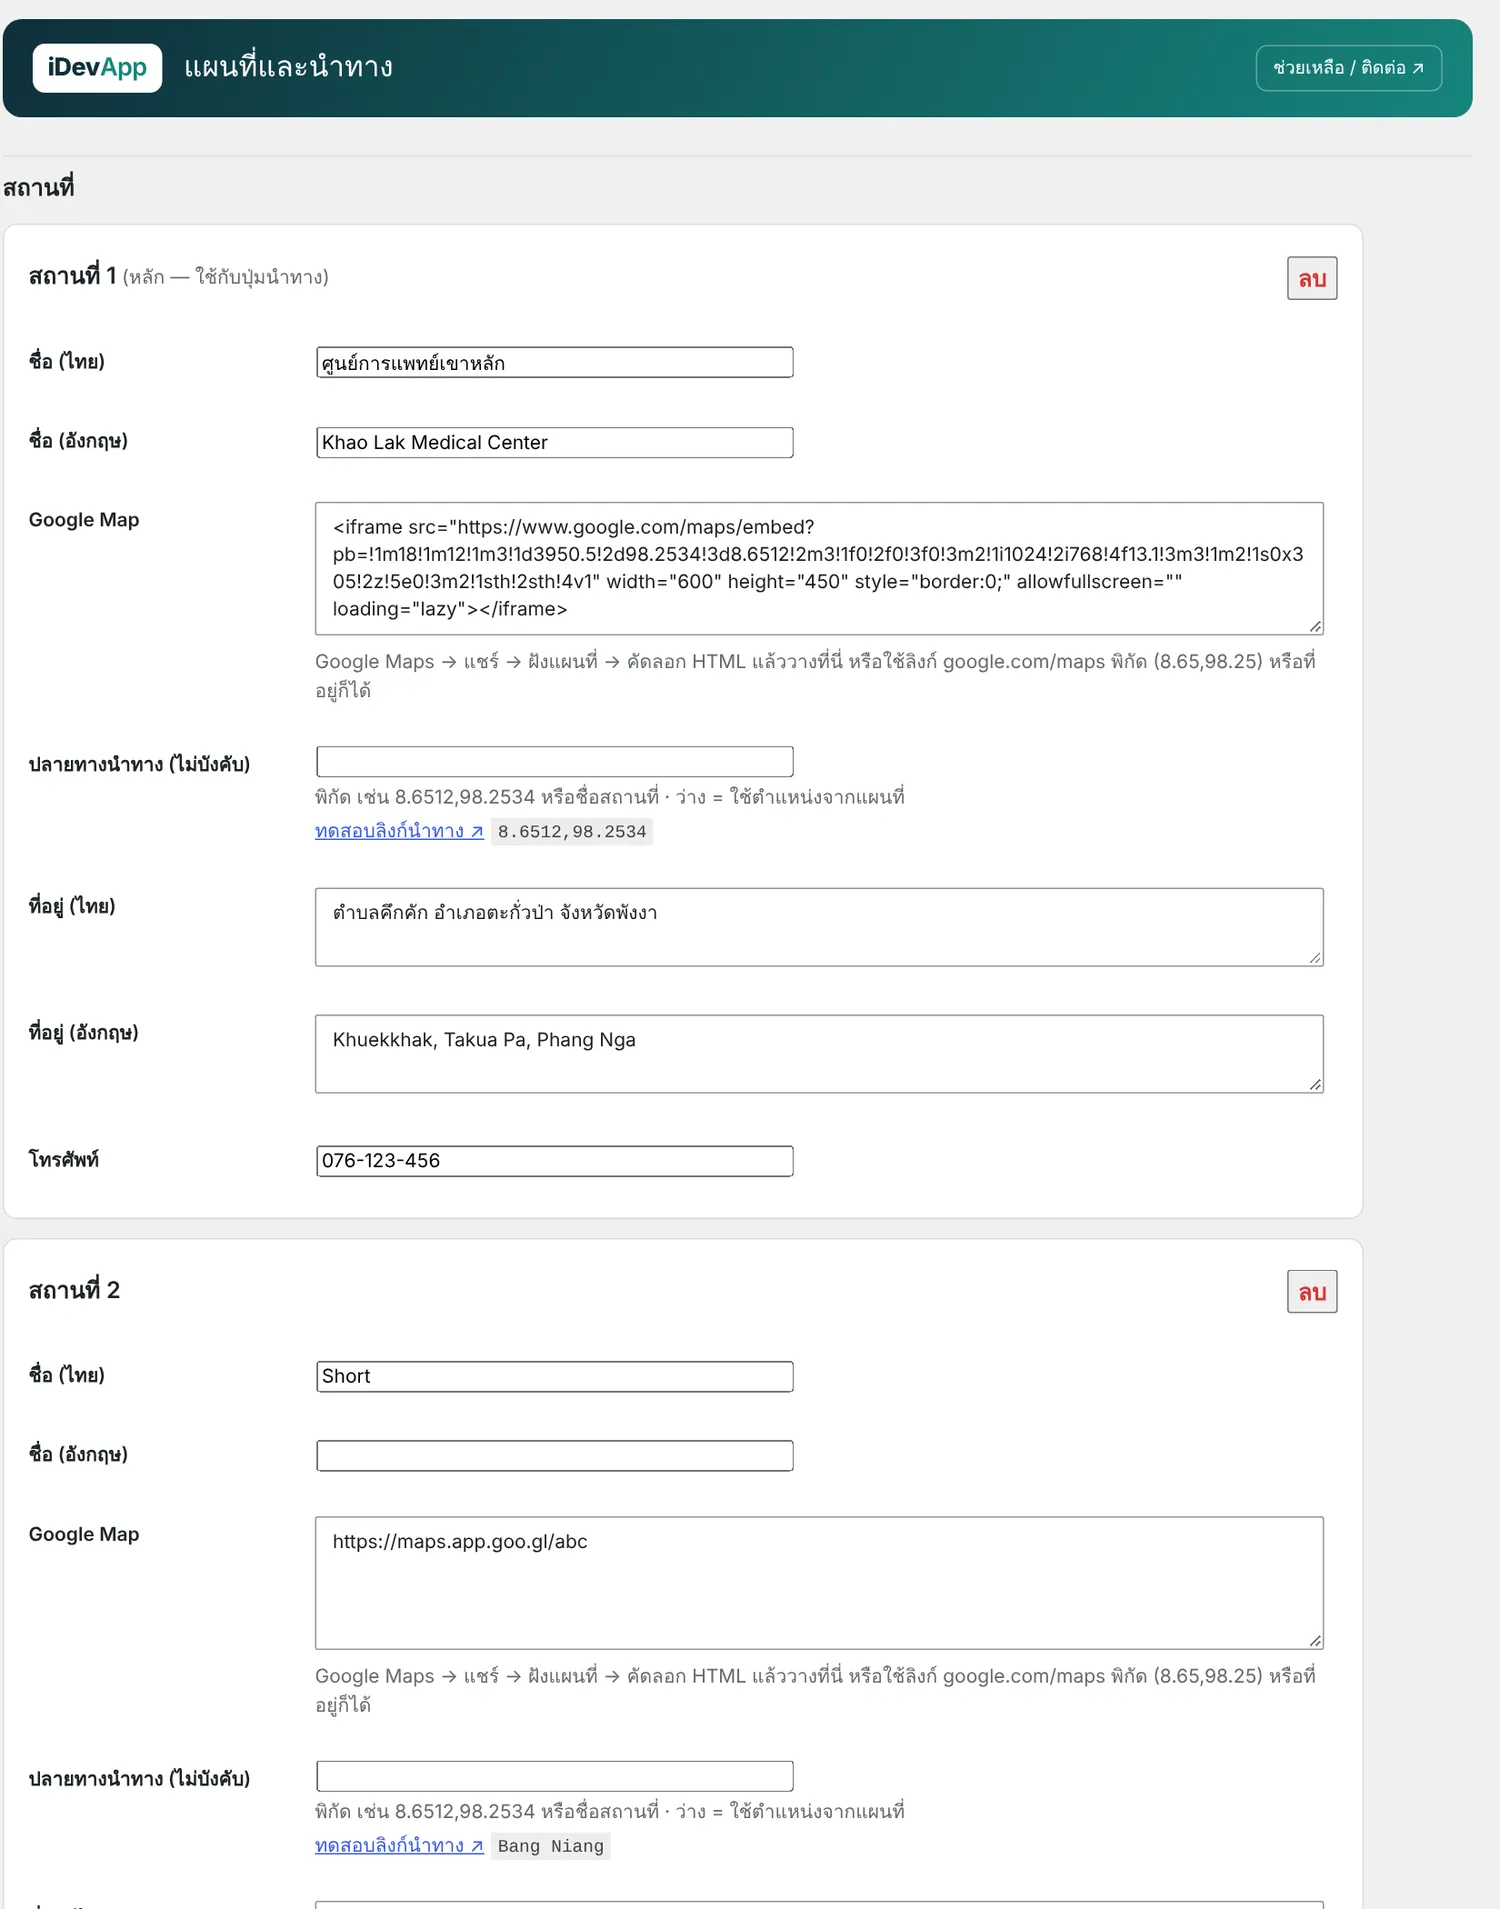
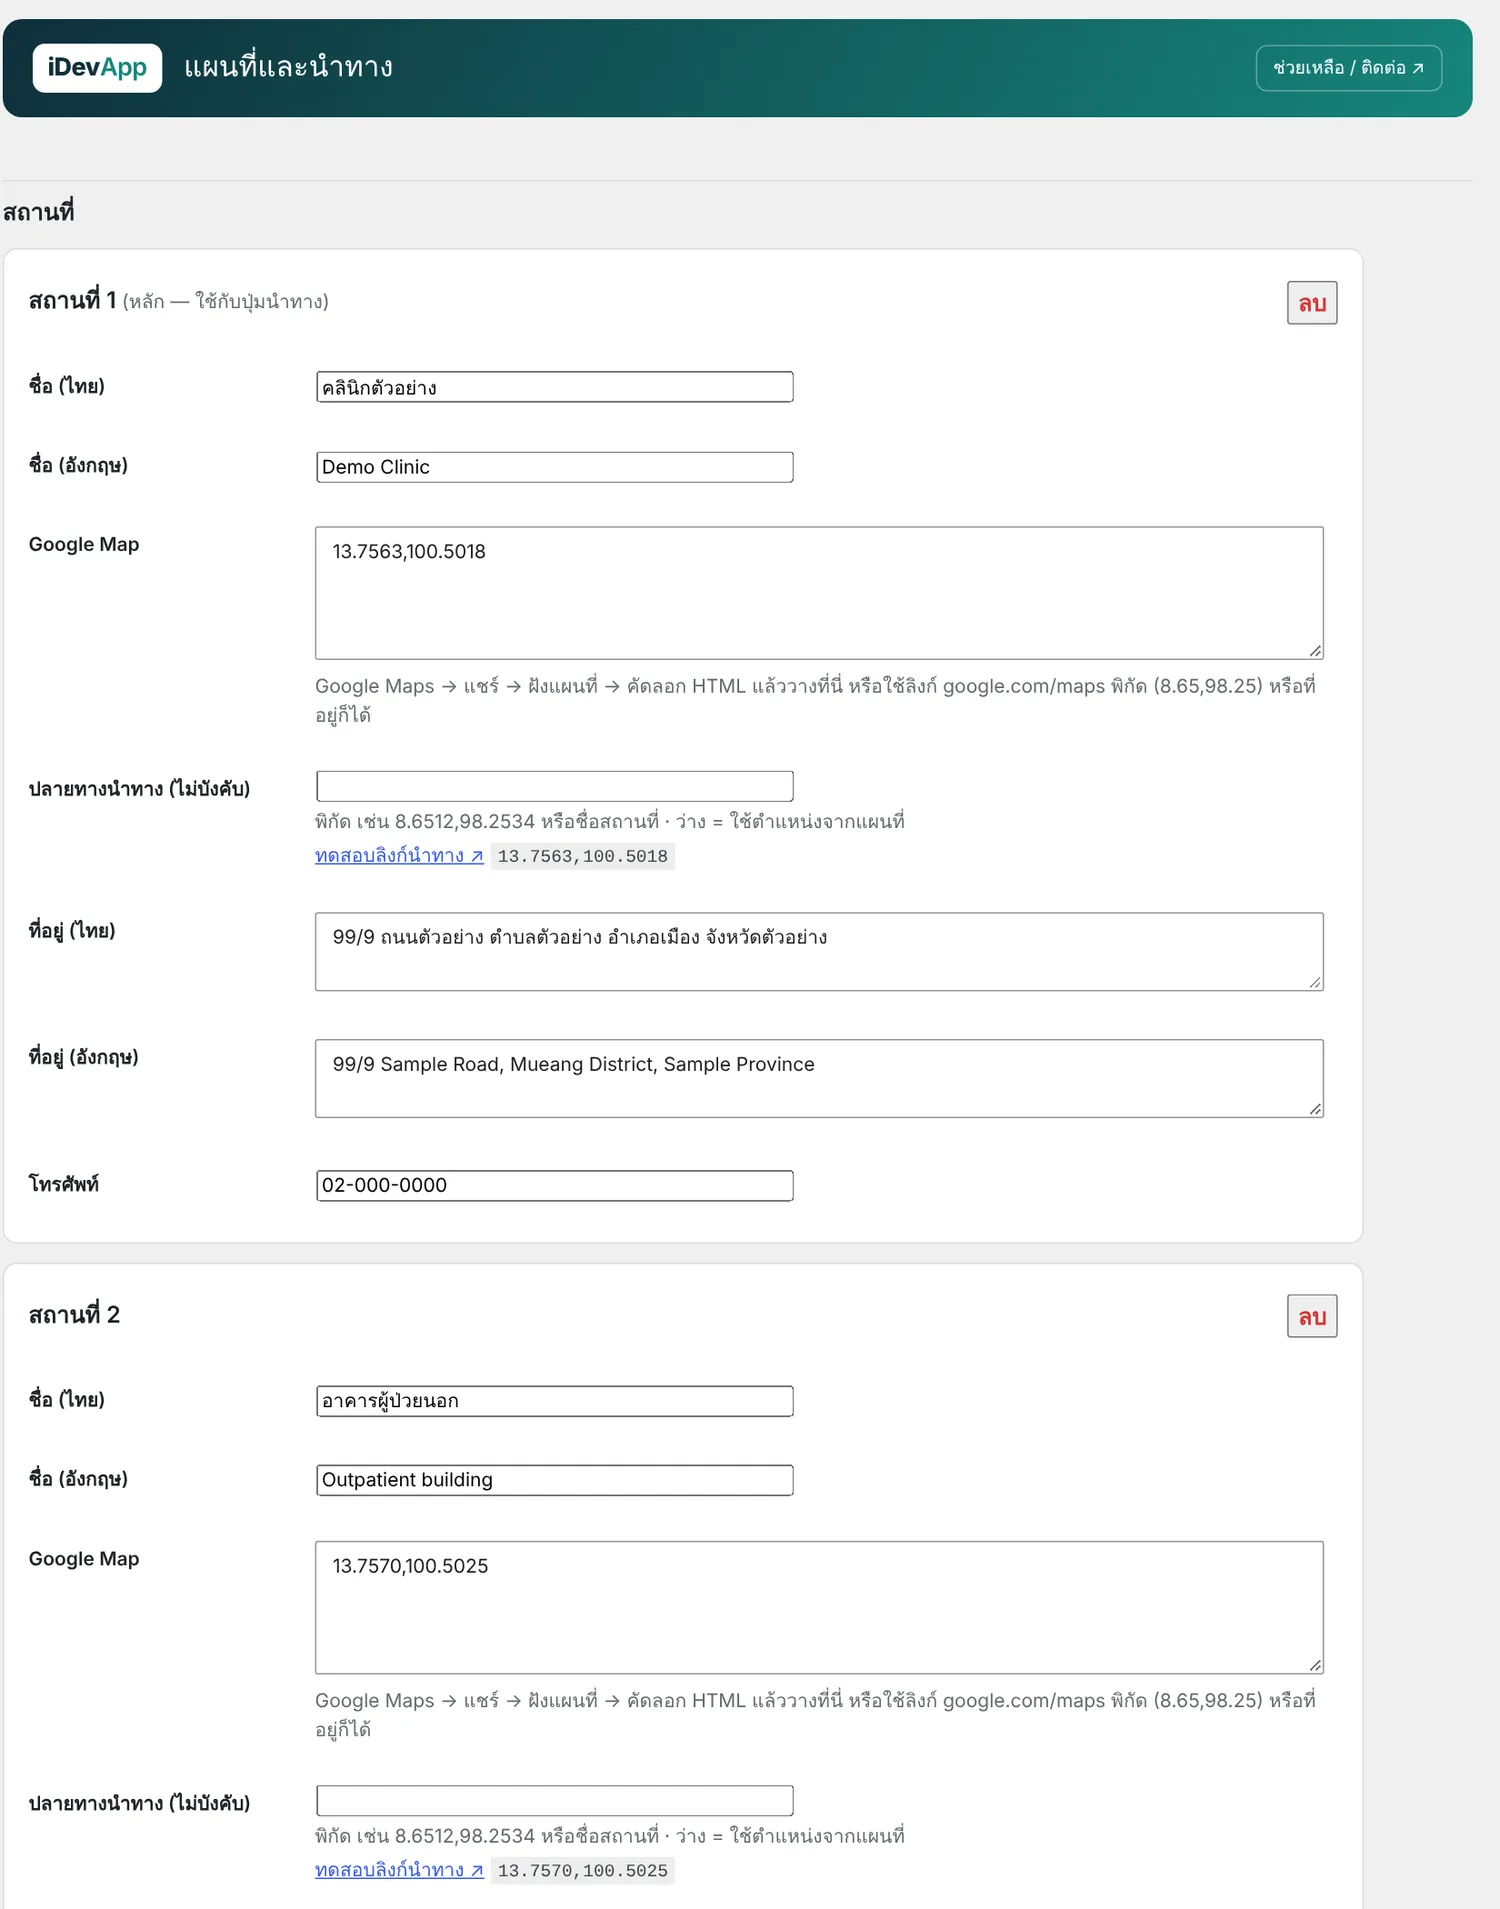
Plugin docs: screenshots with fictional names only
Replace the real hospital name, address and coordinates in the
example screenshots and docs with a fictional demo clinic.

Claude-Session: https://claude.ai/code/session_01UK8DYCxEFMtxQdkuVenry2

diff --git a/plugins/idev-maps/index.html b/plugins/idev-maps/index.html
@@ -44,7 +44,7 @@
     <div class="toc-wrap"><h4>ในหน้านี้</h4><ul class="toc"><li><a href="#features">ความสามารถ</a></li><li><a href="#setup">เริ่มต้นใช้งาน</a></li><li><a href="#usage">บล็อกและ Shortcode</a></li></ul></div>
     <h4>ปลั๊กอินทั้งหมด</h4><ul class="plist"><li><a href="../idev-appointments/" style="--c:#1d3f8b"><span class="dot"></span>นัดหมายออนไลน์</a></li><li><a href="../idev-patient-registration/" style="--c:#0b6e80"><span class="dot"></span>ลงทะเบียนผู้ป่วยใหม่</a></li><li><a href="../idev-clinic-schedule/" style="--c:#12a37f"><span class="dot"></span>ตารางออกตรวจ</a></li><li><a href="../idev-bilingual/" style="--c:#5b5bd6"><span class="dot"></span>สองภาษา TH/EN</a></li><li><a href="../idev-cookie-consent/" style="--c:#d9660f"><span class="dot"></span>คุกกี้ PDPA / GDPR</a></li><li><a href="../idev-maps/" style="--c:#e5484d" aria-current="page"><span class="dot"></span>แผนที่และนำทาง</a></li><li><a href="../idev-news-ticker/" style="--c:#e11d48"><span class="dot"></span>แถบประกาศ</a></li><li><a href="../idev-popup-notice/" style="--c:#7c3aed"><span class="dot"></span>Popup ประกาศ</a></li><li><a href="../idev-post-attachments/" style="--c:#0ea5e9"><span class="dot"></span>ไฟล์แนบ</a></li><li><a href="../idev-org-chart/" style="--c:#0f766e"><span class="dot"></span>แผนผังองค์กร</a></li><li><a href="../idev-thai-holidays/" style="--c:#ca8a04"><span class="dot"></span>วันหยุดประจำปี</a></li></ul>
   </aside>
-  <article class="doc"><section id="features"><h2><span class="n">1</span>ความสามารถ</h2><figure class=""><div class="shot"><img src="../img/maps-front.webp" alt="ชื่อสถานที่ ที่อยู่ และปุ่ม นำทาง · เปิดใน Google Maps · โทร เหนือแผนที่" loading="lazy"></div><figcaption>ชื่อสถานที่ ที่อยู่ และปุ่ม นำทาง · เปิดใน Google Maps · โทร เหนือแผนที่</figcaption></figure><ul><li>วาง <b>โค้ดฝังแผนที่</b> ลิงก์ google.com/maps พิกัด หรือที่อยู่ก็ได้ ไม่ต้องสมัคร API key</li><li><b>หลายสถานที่</b> เช่น โรงพยาบาลหลัก อาคารผู้ป่วยนอก ลานจอดรถ</li><li>ปุ่ม <b>นำทาง</b> ดึงพิกัดจากโค้ดฝังแผนที่ให้เอง เปิดแอป Google Maps พร้อมเส้นทาง</li><li>ชื่อและที่อยู่ไทย/อังกฤษ ปรับความสูง มุมโค้ง และสีปุ่มได้</li><li><b>รอการยินยอมคุกกี้</b> เมื่อใช้ iDev Cookie Consent (Google อาจตั้งคุกกี้เมื่อโหลดแผนที่)</li></ul></section><section id="setup"><h2><span class="n">2</span>เริ่มต้นใช้งาน</h2><ol class="steps"><li><b class="t">คัดลอกโค้ดฝังแผนที่</b><p>เปิด Google Maps ค้นหาสถานที่ → <b>แชร์</b> → <b>ฝังแผนที่</b> → <b>คัดลอก HTML</b></p></li><li><b class="t">เพิ่มสถานที่</b><p><span class="path">iDevApp <i>›</i> แผนที่และนำทาง</span> วางโค้ดในช่อง <b>Google Map</b> ใส่ชื่อ ที่อยู่ และเบอร์โทร กด <b>ทดสอบลิงก์นำทาง</b> เพื่อตรวจตำแหน่ง</p><figure class="tall"><div class="shot"><img src="../img/a-maps.webp" alt="iDevApp › แผนที่และนำทาง" loading="lazy"></div><figcaption>iDevApp › แผนที่และนำทาง</figcaption></figure></li><li><b class="t">วางแผนที่ในหน้า</b><p>ใส่บล็อก <b>แผนที่และนำทาง</b> หรือ <code>[idev_map]</code> ในหน้าติดต่อเรา</p></li></ol><div class="note warn"><svg viewBox="0 0 24 24" fill="none" stroke="currentColor" stroke-width="2" stroke-linecap="round" stroke-linejoin="round"><path d="M12 3.5 2.5 20h19z"/><path d="M12 10v4.5M12 17.5v.3"/></svg><p>ลิงก์ย่อ <code>maps.app.goo.gl</code> ฝังเป็นแผนที่ไม่ได้ ให้ใช้ "ฝังแผนที่" แทน (ปุ่มนำทางยังใช้ลิงก์ย่อได้) ถ้าปุ่มนำทางไปผิดที่ ใส่พิกัดในช่อง <b>ปลายทางนำทาง</b> เช่น <code>8.6512,98.2534</code></p></div></section><section id="usage"><h2><span class="n">3</span>บล็อกและ Shortcode</h2><div class="tw"><table class="ref"><thead><tr><th>Shortcode</th><th>ผล</th></tr></thead><tbody><tr><td><code>[idev_map]</code></td><td>แผนที่ของสถานที่ 1 พร้อมปุ่ม</td></tr><tr><td><code>[idev_map location="1"]</code></td><td>สถานที่ 2 (<code>location</code> นับจาก 0)</td></tr><tr><td><code>[idev_map height="300" buttons="no" address="no"]</code></td><td>ปรับความสูง ซ่อนปุ่มหรือที่อยู่</td></tr><tr><td><code>[idev_map map="no"]</code></td><td>เฉพาะชื่อ ที่อยู่ และปุ่ม ไม่โหลดแผนที่</td></tr><tr><td><code>[idev_directions label="นำทางมาโรงพยาบาล"]</code></td><td>ปุ่มนำทางอย่างเดียว (ใช้ใน footer หรือแถบล่างมือถือ)</td></tr></tbody></table></div><p>PHP: <code>idev_map_render(['location' =&gt; 0])</code> · <code>idev_maps_directions_url(0)</code> คืนลิงก์นำทาง</p></section><section id="related"><h2>ใช้ร่วมกับ</h2><div class="rel"><a class="pcard" href="../idev-bilingual/" style="--c:#5b5bd6"><span class="ic"><svg viewBox="0 0 24 24" fill="none" stroke="currentColor" stroke-width="1.8" stroke-linecap="round" stroke-linejoin="round" aria-hidden="true"><circle cx="12" cy="12" r="9"/><path d="M3 12h18M12 3c2.5 2.5 3.8 5.5 3.8 9s-1.3 6.5-3.8 9c-2.5-2.5-3.8-5.5-3.8-9S9.5 5.5 12 3z"/></svg></span><b>iDev Bilingual TH/EN</b><span>เว็บสองภาษาไทย/อังกฤษ โดยไม่ต้องทำหน้าซ้ำ ปุ่มสลับ TH/EN และทุกปลั๊กอิน iDev เปลี่ยนภาษาตาม</span></a><a class="pcard" href="../idev-cookie-consent/" style="--c:#d9660f"><span class="ic"><svg viewBox="0 0 24 24" fill="none" stroke="currentColor" stroke-width="1.8" stroke-linecap="round" stroke-linejoin="round" aria-hidden="true"><path d="M20.5 12.5A8.5 8.5 0 1 1 11.5 3.5a3 3 0 0 0 4 3.5 3 3 0 0 0 5 5.5z"/><circle cx="8.5" cy="10" r="1"/><circle cx="12" cy="15.5" r="1"/><circle cx="15.5" cy="12" r=".8"/><circle cx="8.5" cy="15" r=".6"/></svg></span><b>iDev Cookie Consent (PDPA / GDPR)</b><span>แบนเนอร์ขอความยินยอมคุกกี้ ยอมรับ / ไม่ยอมรับ / เลือกเอง บันทึกหลักฐาน และสคริปต์ที่รอความยินยอม</span></a></div></section></article>
+  <article class="doc"><section id="features"><h2><span class="n">1</span>ความสามารถ</h2><figure class=""><div class="shot"><img src="../img/maps-front.webp" alt="ชื่อสถานที่ ที่อยู่ และปุ่ม นำทาง · เปิดใน Google Maps · โทร เหนือแผนที่" loading="lazy"></div><figcaption>ชื่อสถานที่ ที่อยู่ และปุ่ม นำทาง · เปิดใน Google Maps · โทร เหนือแผนที่</figcaption></figure><ul><li>วาง <b>โค้ดฝังแผนที่</b> ลิงก์ google.com/maps พิกัด หรือที่อยู่ก็ได้ ไม่ต้องสมัคร API key</li><li><b>หลายสถานที่</b> เช่น โรงพยาบาลหลัก อาคารผู้ป่วยนอก ลานจอดรถ</li><li>ปุ่ม <b>นำทาง</b> ดึงพิกัดจากโค้ดฝังแผนที่ให้เอง เปิดแอป Google Maps พร้อมเส้นทาง</li><li>ชื่อและที่อยู่ไทย/อังกฤษ ปรับความสูง มุมโค้ง และสีปุ่มได้</li><li><b>รอการยินยอมคุกกี้</b> เมื่อใช้ iDev Cookie Consent (Google อาจตั้งคุกกี้เมื่อโหลดแผนที่)</li></ul></section><section id="setup"><h2><span class="n">2</span>เริ่มต้นใช้งาน</h2><ol class="steps"><li><b class="t">คัดลอกโค้ดฝังแผนที่</b><p>เปิด Google Maps ค้นหาสถานที่ → <b>แชร์</b> → <b>ฝังแผนที่</b> → <b>คัดลอก HTML</b></p></li><li><b class="t">เพิ่มสถานที่</b><p><span class="path">iDevApp <i>›</i> แผนที่และนำทาง</span> วางโค้ดในช่อง <b>Google Map</b> ใส่ชื่อ ที่อยู่ และเบอร์โทร กด <b>ทดสอบลิงก์นำทาง</b> เพื่อตรวจตำแหน่ง</p><figure class="tall"><div class="shot"><img src="../img/a-maps.webp" alt="iDevApp › แผนที่และนำทาง" loading="lazy"></div><figcaption>iDevApp › แผนที่และนำทาง</figcaption></figure></li><li><b class="t">วางแผนที่ในหน้า</b><p>ใส่บล็อก <b>แผนที่และนำทาง</b> หรือ <code>[idev_map]</code> ในหน้าติดต่อเรา</p></li></ol><div class="note warn"><svg viewBox="0 0 24 24" fill="none" stroke="currentColor" stroke-width="2" stroke-linecap="round" stroke-linejoin="round"><path d="M12 3.5 2.5 20h19z"/><path d="M12 10v4.5M12 17.5v.3"/></svg><p>ลิงก์ย่อ <code>maps.app.goo.gl</code> ฝังเป็นแผนที่ไม่ได้ ให้ใช้ "ฝังแผนที่" แทน (ปุ่มนำทางยังใช้ลิงก์ย่อได้) ถ้าปุ่มนำทางไปผิดที่ ใส่พิกัดในช่อง <b>ปลายทางนำทาง</b> เช่น <code>13.7563,100.5018</code></p></div></section><section id="usage"><h2><span class="n">3</span>บล็อกและ Shortcode</h2><div class="tw"><table class="ref"><thead><tr><th>Shortcode</th><th>ผล</th></tr></thead><tbody><tr><td><code>[idev_map]</code></td><td>แผนที่ของสถานที่ 1 พร้อมปุ่ม</td></tr><tr><td><code>[idev_map location="1"]</code></td><td>สถานที่ 2 (<code>location</code> นับจาก 0)</td></tr><tr><td><code>[idev_map height="300" buttons="no" address="no"]</code></td><td>ปรับความสูง ซ่อนปุ่มหรือที่อยู่</td></tr><tr><td><code>[idev_map map="no"]</code></td><td>เฉพาะชื่อ ที่อยู่ และปุ่ม ไม่โหลดแผนที่</td></tr><tr><td><code>[idev_directions label="นำทางมาโรงพยาบาล"]</code></td><td>ปุ่มนำทางอย่างเดียว (ใช้ใน footer หรือแถบล่างมือถือ)</td></tr></tbody></table></div><p>PHP: <code>idev_map_render(['location' =&gt; 0])</code> · <code>idev_maps_directions_url(0)</code> คืนลิงก์นำทาง</p></section><section id="related"><h2>ใช้ร่วมกับ</h2><div class="rel"><a class="pcard" href="../idev-bilingual/" style="--c:#5b5bd6"><span class="ic"><svg viewBox="0 0 24 24" fill="none" stroke="currentColor" stroke-width="1.8" stroke-linecap="round" stroke-linejoin="round" aria-hidden="true"><circle cx="12" cy="12" r="9"/><path d="M3 12h18M12 3c2.5 2.5 3.8 5.5 3.8 9s-1.3 6.5-3.8 9c-2.5-2.5-3.8-5.5-3.8-9S9.5 5.5 12 3z"/></svg></span><b>iDev Bilingual TH/EN</b><span>เว็บสองภาษาไทย/อังกฤษ โดยไม่ต้องทำหน้าซ้ำ ปุ่มสลับ TH/EN และทุกปลั๊กอิน iDev เปลี่ยนภาษาตาม</span></a><a class="pcard" href="../idev-cookie-consent/" style="--c:#d9660f"><span class="ic"><svg viewBox="0 0 24 24" fill="none" stroke="currentColor" stroke-width="1.8" stroke-linecap="round" stroke-linejoin="round" aria-hidden="true"><path d="M20.5 12.5A8.5 8.5 0 1 1 11.5 3.5a3 3 0 0 0 4 3.5 3 3 0 0 0 5 5.5z"/><circle cx="8.5" cy="10" r="1"/><circle cx="12" cy="15.5" r="1"/><circle cx="15.5" cy="12" r=".8"/><circle cx="8.5" cy="15" r=".6"/></svg></span><b>iDev Cookie Consent (PDPA / GDPR)</b><span>แบนเนอร์ขอความยินยอมคุกกี้ ยอมรับ / ไม่ยอมรับ / เลือกเอง บันทึกหลักฐาน และสคริปต์ที่รอความยินยอม</span></a></div></section></article>
 </div>
 </main>
 <footer>
